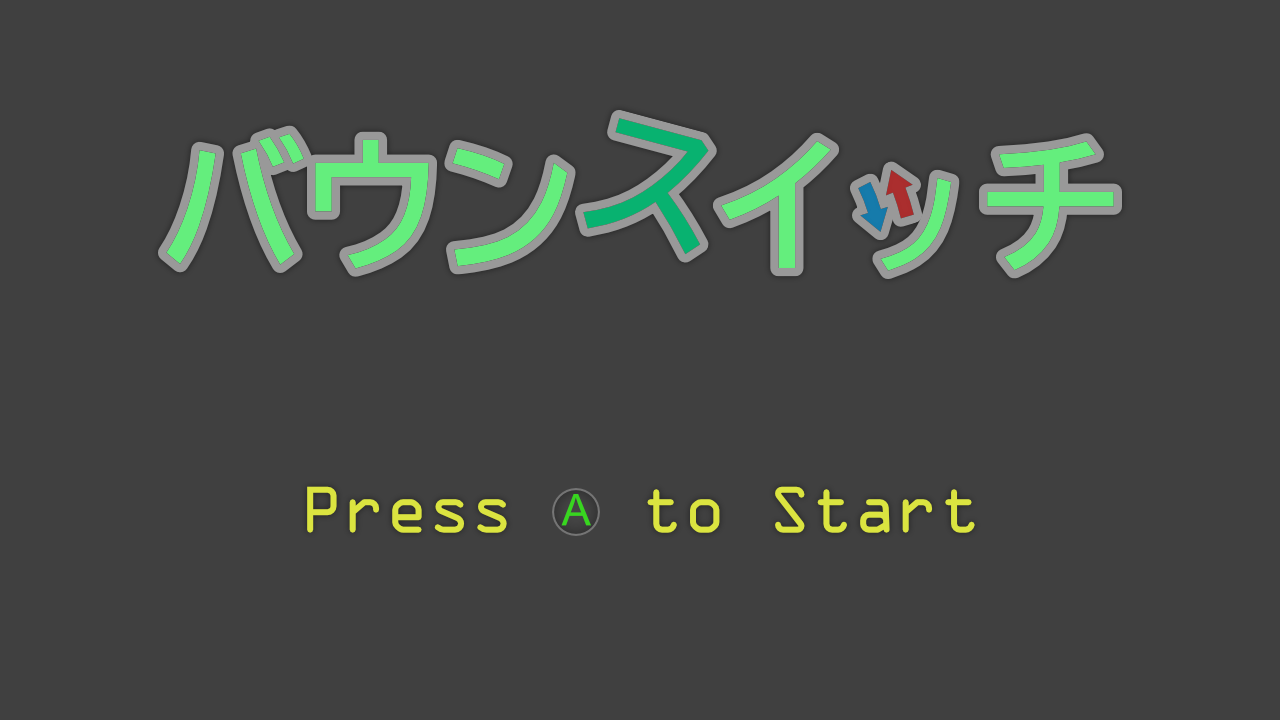
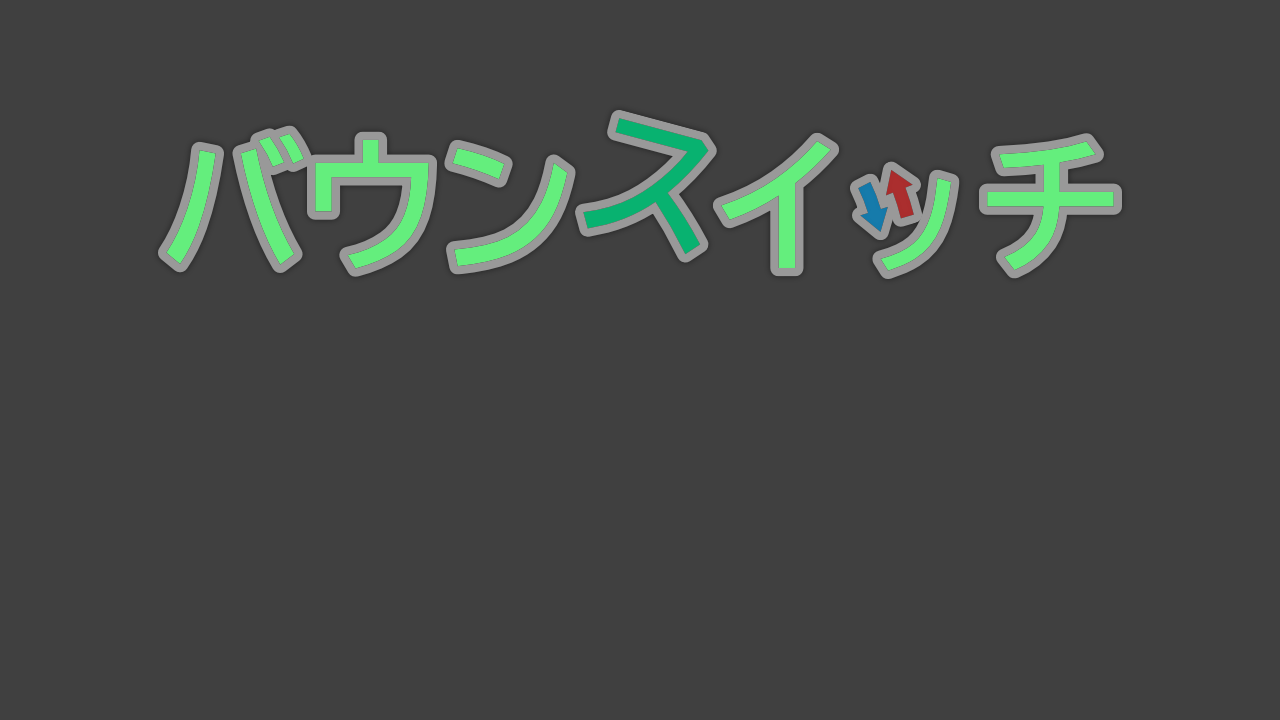
タイトルシーンにスプライトを入れました

diff --git a/project/Game/Scenes/TitleScene.cpp b/project/Game/Scenes/TitleScene.cpp
@@ -10,6 +10,11 @@ void TitleScene::Initialize() {
 	titleLogoTextureHandle_ = TextureManager::Load("./Resources/GUI/title.png");
 	titleLogoSprite_ = std::make_unique<Sprite>();
 	titleLogoSprite_->Initialize({ 0.0f,0.0f,0.0f }, &viewProjection_, titleLogoTextureHandle_);
+
+	pressButtonTextureHandle_ = TextureManager::Load("./Resources/GUI/pressbutton.png");
+	pressButtonSprite_ = std::make_unique<Sprite>();
+	pressButtonSprite_->Initialize({ 640.0f,512.0f,0.0f }, &viewProjection_, pressButtonTextureHandle_);
+	pressButtonSprite_->SetAnchorPoint(Vector3(0.5f, 0.5f, 0.0f));
 }
 
 void TitleScene::Finalize() {}
@@ -53,12 +58,14 @@ void TitleScene::Update() {
 	}
 
 	titleLogoSprite_->Update();
+	pressButtonSprite_->Update();
 
 	viewProjection_.UpdateMatrix();
 }
 
 void TitleScene::Draw() {
 	titleLogoSprite_->Draw();
+	pressButtonSprite_->Draw();
 }
 
 void TitleScene::ChangeScene() {

diff --git a/project/Game/Scenes/TitleScene.h b/project/Game/Scenes/TitleScene.h
@@ -40,5 +40,8 @@ private:
 
 	std::string titleLogoTextureHandle_;
 	std::unique_ptr<Sprite> titleLogoSprite_;
+
+	std::string pressButtonTextureHandle_;
+	std::unique_ptr<Sprite> pressButtonSprite_;
 };
 
